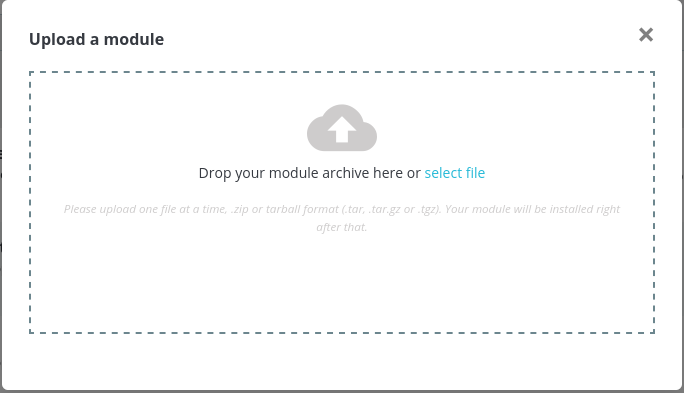
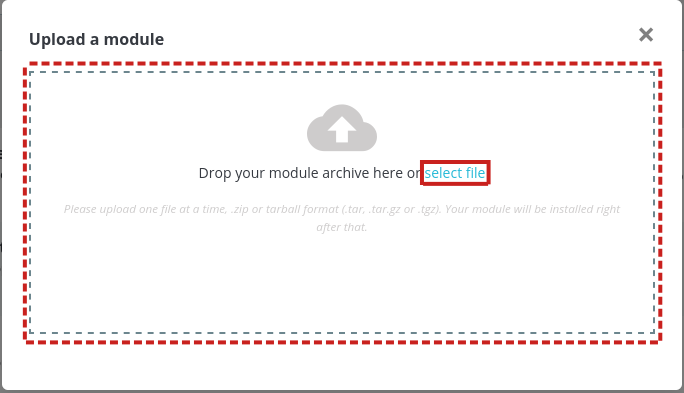
PES-1550 Installation

Changed region(s): [[0.0307, 0.1527, 0.9825, 0.8855], [0.614, 0.3969, 0.7368, 0.4885]]

diff --git a/docs/cz/installation.md b/docs/cz/installation.md
@@ -1,0 +1,14 @@
+### Instalace
+1. Přihlašte se do administrace PrestaShopu, klikněte na záložku "Moduly -> Module Manager".:
+
+![screen1](../assets/module_manager.png)
+
+2. V pravém horním rohu stránky klikněte na "Nahrát modul":
+
+![screen2](../assets/module_manager_upload.png)
+
+3. Klikněte na "vybrat soubor" a najděte cestu ke staženému souboru modulu, případně přetáhněte stažený soubor modulu pomocí myši do oblasti vyznačené přerušovanou čárou:
+
+![screen3](../assets/upload_module.png)
+
+[Konfigurace modulu &#8594;](configuration.md) 
